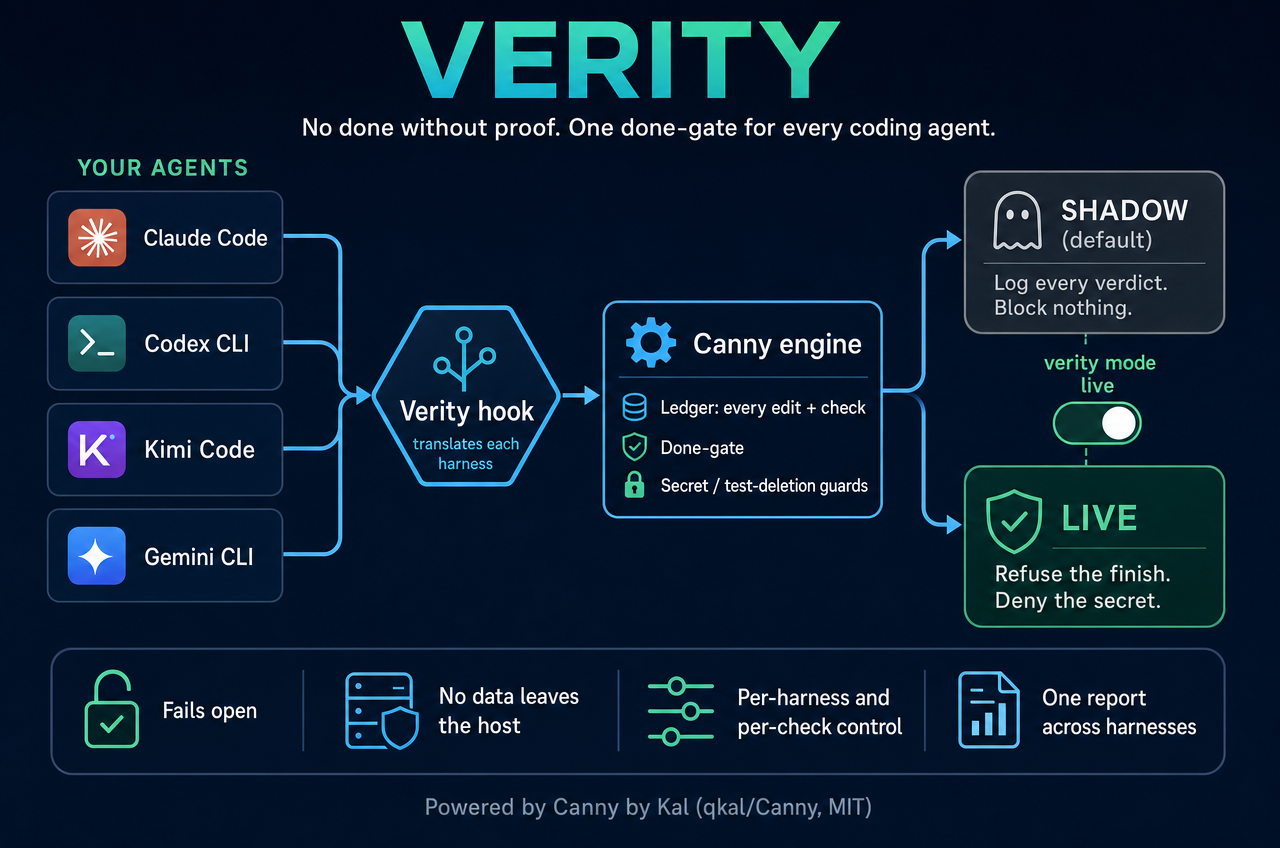
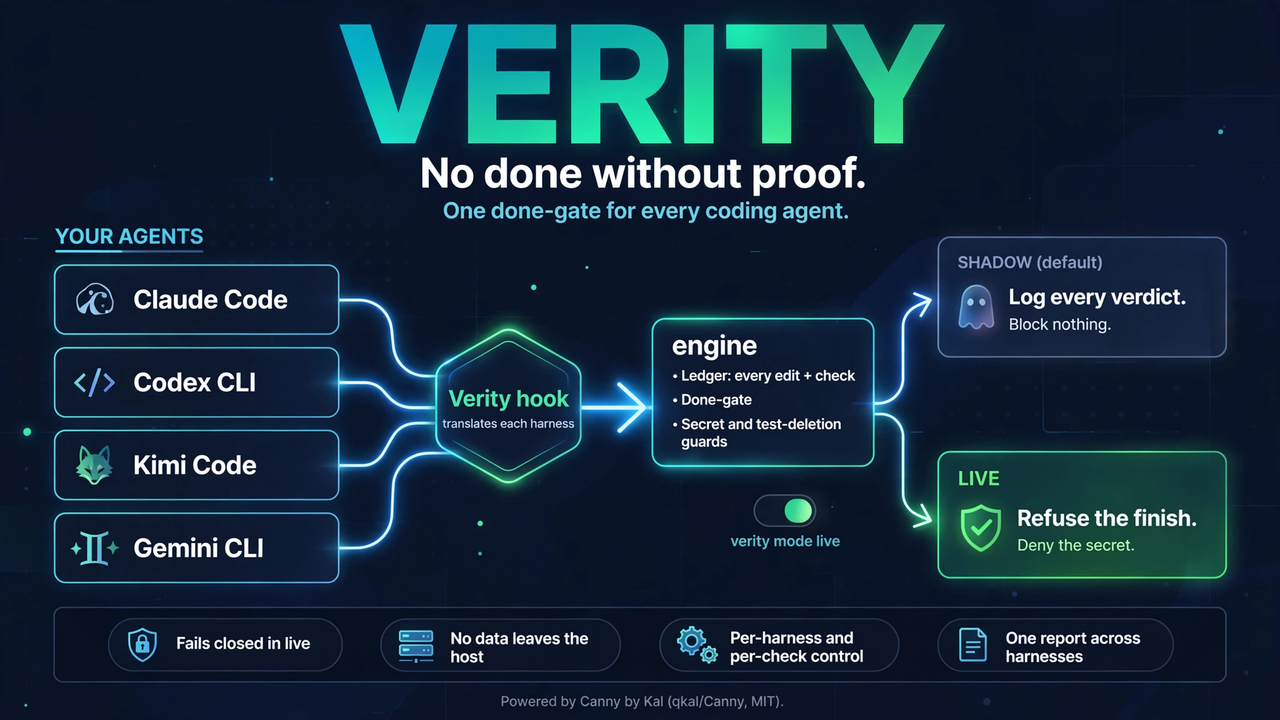
Refresh README for fail-closed behavior; reimage hero
- Document fail-closed in live mode (was incorrectly described as
  fail-open) in How-it-works and the failure paragraph.
- Tests section now describes fail-closed coverage including the
  Kimi/Gemini translated refusal.
- New hero image: regenerated workflow diagram with the fail-closed
  badge.

diff --git a/README.md b/README.md
@@ -21,9 +21,10 @@ Verity adds what Canny doesn't ship: adapters for Kimi Code and Gemini CLI, a sh
 3. **Canny** updates its ledger and returns a verdict: allow, refuse the finish, deny or ask about a tool call, rewrite a command, or add a note.
 4. **Verity** logs the verdict, then:
    - in **shadow**, answers `{}` so the agent is unaffected;
-   - in **live**, returns the verdict in the harness's own format (translated back for Kimi and Gemini).
+   - in **live**, returns the verdict in the harness's own format (translated back for Kimi and Gemini);
+   - in **live**, if the analyzer can't answer (missing, crashed, timed out, malformed output), refuses the finish or the tool call instead of silently passing — a dead gate fails closed, and the outage is logged.
 
-Canny's optional Jev model is disabled in both modes: the API key is stripped and the endpoint points at a dead port, so no text leaves the host. If anything fails (Canny missing, a timeout, malformed output), Verity answers `{}` and the agent carries on.
+Canny's optional Jev model is disabled in both modes: the API key is stripped and the endpoint points at a dead port, so no text leaves the host. If anything fails (analyzer missing, a timeout, malformed output), Verity fails closed in live mode — it refuses the finish or the tool call rather than silently passing — and answers `{}` in shadow mode, where the gate only observes.
 
 | Harness | Config written | Scope | Translation |
 |---|---|---|---|
@@ -109,4 +110,4 @@ Kimi and Gemini ledgers are named `claude-kimi-<id>` / `claude-gemini-<id>` beca
 bash test/run.sh
 ```
 
-Hermetic: a fake Canny CLI and a temporary `HOME`, project and Verity home. Covers translation in both directions, shadow mode for every harness, the Jev key never reaching Canny, the kill switch, the mode CLI, live mode per harness and per check, environment precedence, failing open on bad output, and the installer's merge, preservation, migration and idempotency.
+Hermetic: a fake Canny CLI and a temporary `HOME`, project and Verity home. Covers translation in both directions, shadow mode for every harness, the Jev key never reaching Canny, the kill switch, the mode CLI, live mode per harness and per check, environment precedence, failing closed on bad output in live mode (including the Kimi/Gemini translated refusal), and the installer's merge, preservation, migration and idempotency.
